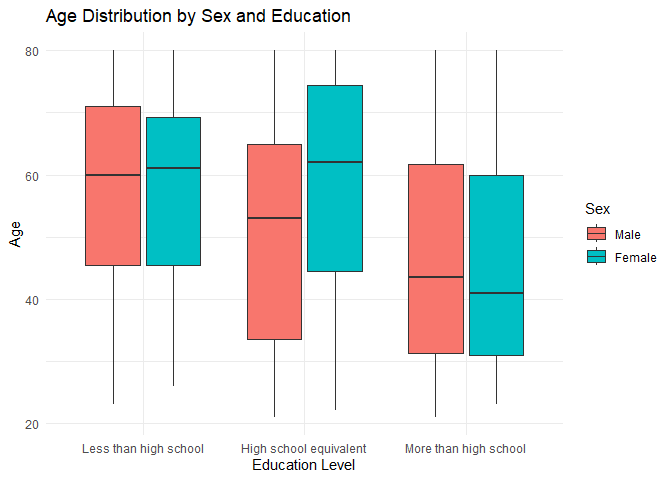
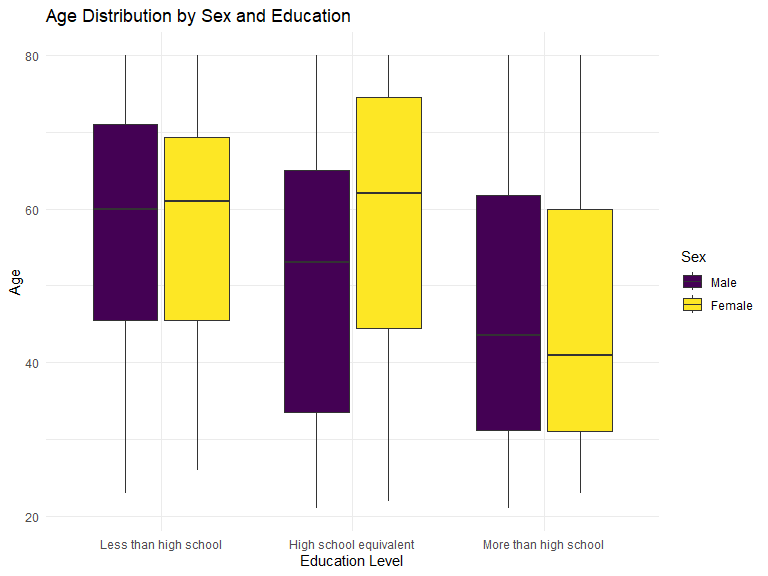
final commit

diff --git a/p8105_hw3_zj2358.md b/p8105_hw3_zj2358.md
@@ -55,11 +55,10 @@ ggplot(aisle_plot, aes(x = reorder(aisle, item_count), y = item_count)) +
   coord_flip() + 
   labs(title = "Number of Items Ordered in Each Aisle",
        x = "Aisle",
-       y = "Number of Items ordered") +
-  theme_minimal()
+       y = "Number of Items ordered") 
 ```
 
-![](p8105_hw3_zj2358_files/figure-gfm/unnamed-chunk-3-1.png)<!-- -->
+<img src="p8105_hw3_zj2358_files/figure-gfm/unnamed-chunk-3-1.png" width="90%" />
 
 Make a table showing the three most popular items in each of the aisles
 “baking ingredients”, “dog food care”, and “packaged vegetables fruits”.
@@ -167,7 +166,12 @@ states_with_7_or_more_locations <- brfss_smart2010 %>%
   group_by(year, location_abbr) %>%
   summarise(num_entries = n_distinct(location_desc)) %>%
   filter(num_entries >= 7)
+```
 
+    ## `summarise()` has grouped output by 'year'. You can override using the
+    ## `.groups` argument.
+
+``` r
 states_2002 <- states_with_7_or_more_locations %>%
   filter(year == 2002)  %>%
   pull(location_abbr)
@@ -192,6 +196,9 @@ excellent_responses <- brfss_smart2010 %>%
   summarise(avg_data_value = round(mean(data_value, na.rm = TRUE),2))
 ```
 
+    ## `summarise()` has grouped output by 'year'. You can override using the
+    ## `.groups` argument.
+
 Make a “spaghetti” plot of this average value over time within a state
 
 ``` r
@@ -199,10 +206,10 @@ ggplot(excellent_responses, aes(x = year, y = avg_data_value, group = location_a
   geom_line(aes(color = location_abbr), alpha = 0.7) +
   labs(title = "Average value trends for each state",
        y = "Average Data Value") +
-  theme_minimal() 
+  theme_minimal()
 ```
 
-![](p8105_hw3_zj2358_files/figure-gfm/unnamed-chunk-10-1.png)<!-- -->
+<img src="p8105_hw3_zj2358_files/figure-gfm/unnamed-chunk-10-1.png" width="90%" />
 
 From the Visualization:
 
@@ -218,31 +225,37 @@ distribution of data_value for responses (“Poor” to “Excellent”) among
 locations in NY State.
 
 ``` r
-ny <- brfss_smart2010 %>%
-  filter(year %in% c(2006, 2010) & location_abbr == "NY")
+plot_2006=
+  brfss_smart2010 |>
+  filter(location_abbr=="NY",year==2006)|>
+  ggplot(aes(x =location_desc , y = data_value,fill=response)) + 
+  geom_bar(position="dodge",stat="identity") +  
+  labs(title = "Distribution of data_value in NY State in 2006") + 
+  theme(plot.title = element_text(size = 10), axis.text.x = element_text(angle = 20, hjust = 1),legend.position = "none") 
 
-ggplot(ny, aes(x = response, y = data_value)) +
-  geom_boxplot() +
-  facet_wrap(~ year, ncol = 2) +
-  labs(title = "Distribution of Data Value for responses in NY (2006 & 2010)",
-       y = "Data Value",
-       x = "Response") +
-  theme_minimal()
+plot_2010=
+  brfss_smart2010 |>
+  filter(location_abbr=="NY",year==2010)|>
+  ggplot(aes(x =location_desc , y = data_value,fill=response)) + 
+  geom_bar(position="dodge",stat="identity") +  
+  labs(title = "Distribution of data_value in NY State in 2010") +
+  theme(plot.title = element_text(size = 10), axis.text.x = element_text(angle = 20, hjust = 1))
+
+plot_2006 + plot_2010
 ```
 
-![](p8105_hw3_zj2358_files/figure-gfm/unnamed-chunk-11-1.png)<!-- -->
+<img src="p8105_hw3_zj2358_files/figure-gfm/unnamed-chunk-11-1.png" width="90%" />
 
 From the Visualization:
 
-For both years, the “Poor” response has the lowest median data value, as
-expected. The data values generally increase as we move from “Poor” to
-“Excellent,” which is intuitive. The “Very good” and “Excellent”
-categories in 2006 have a similar median, but in 2010, the “Excellent”
-category has a slightly higher median. The IQR for “Fair” in 2006 seems
-wider compared to 2010, indicating more variability in the data values
-for that year. There’s a noticeable difference in the “Good” category
-between the two years, with the median value being higher in 2010 than
-in 2006.
+The side-by-side layout of the two graphs facilitates easy comparison of
+data values between 2006 and 2010. While there is variation among
+counties, the overall distribution appears somewhat consistent between
+the two years. While many counties exhibit bars of similar heights
+between the two years (e.g., Kings County, Queens County), some show
+noticeable changes. For instance, the “Very good” category appears to
+decrease in some counties from 2006 to 2010, while others see an
+increase.
 
 ## Problem 3
 
@@ -251,9 +264,31 @@ Load and clean the datasets
 ``` r
 nhanes_accel <- read_csv("nhanes_accel.csv")  %>%
   janitor::clean_names()
+```
+
+    ## Rows: 250 Columns: 1441
+    ## ── Column specification ────────────────────────────────────────────────────────
+    ## Delimiter: ","
+    ## dbl (1441): SEQN, min1, min2, min3, min4, min5, min6, min7, min8, min9, min1...
+    ## 
+    ## ℹ Use `spec()` to retrieve the full column specification for this data.
+    ## ℹ Specify the column types or set `show_col_types = FALSE` to quiet this message.
+
+``` r
 nhanes_covar <- read_csv("nhanes_covar.csv") %>%
   janitor::clean_names()
 ```
+
+    ## New names:
+    ## Rows: 254 Columns: 5
+    ## ── Column specification
+    ## ──────────────────────────────────────────────────────── Delimiter: "," chr
+    ## (5): ...1, 1 = male, ...3, ...4, 1 = Less than high school
+    ## ℹ Use `spec()` to retrieve the full column specification for this data. ℹ
+    ## Specify the column types or set `show_col_types = FALSE` to quiet this message.
+    ## • `` -> `...1`
+    ## • `` -> `...3`
+    ## • `` -> `...4`
 
 Tidy the data
 
@@ -328,7 +363,7 @@ ggplot(nhanes, aes(x = education, y = age, fill = sex)) +
   theme_minimal()
 ```
 
-![](p8105_hw3_zj2358_files/figure-gfm/unnamed-chunk-18-1.png)<!-- -->
+<img src="p8105_hw3_zj2358_files/figure-gfm/unnamed-chunk-18-1.png" width="90%" />
 
 From the Visualization:
 
@@ -352,11 +387,12 @@ ggplot(nhanes, aes(x = age, y = total_activity, color = sex)) +
        x = "Age",
        y = "Total Activity",
        color = "Sex",
-       shape = "Sex") +
-  theme_minimal()
+       shape = "Sex") 
 ```
 
-![](p8105_hw3_zj2358_files/figure-gfm/unnamed-chunk-19-1.png)<!-- -->
+    ## `geom_smooth()` using formula = 'y ~ x'
+
+<img src="p8105_hw3_zj2358_files/figure-gfm/unnamed-chunk-19-1.png" width="90%" />
 
 From the Visualization:
 
@@ -384,11 +420,12 @@ ggplot(nhanes_new, aes(x = minute, y = activity, color = sex)) +
   scale_x_continuous(name = "Hour", breaks = seq(0, 1440, 60), labels = 0:24) +
   labs(title = "24-hour Activity Time Courses by Education Level",
        y = "Activity",
-       color = "Sex") +
-  theme_minimal()
+       color = "Sex") 
 ```
 
-![](p8105_hw3_zj2358_files/figure-gfm/unnamed-chunk-20-1.png)<!-- -->
+    ## `geom_smooth()` using method = 'gam' and formula = 'y ~ s(x, bs = "cs")'
+
+<img src="p8105_hw3_zj2358_files/figure-gfm/unnamed-chunk-20-1.png" width="90%" />
 
 From the Visualization, we can conclude that:
 
